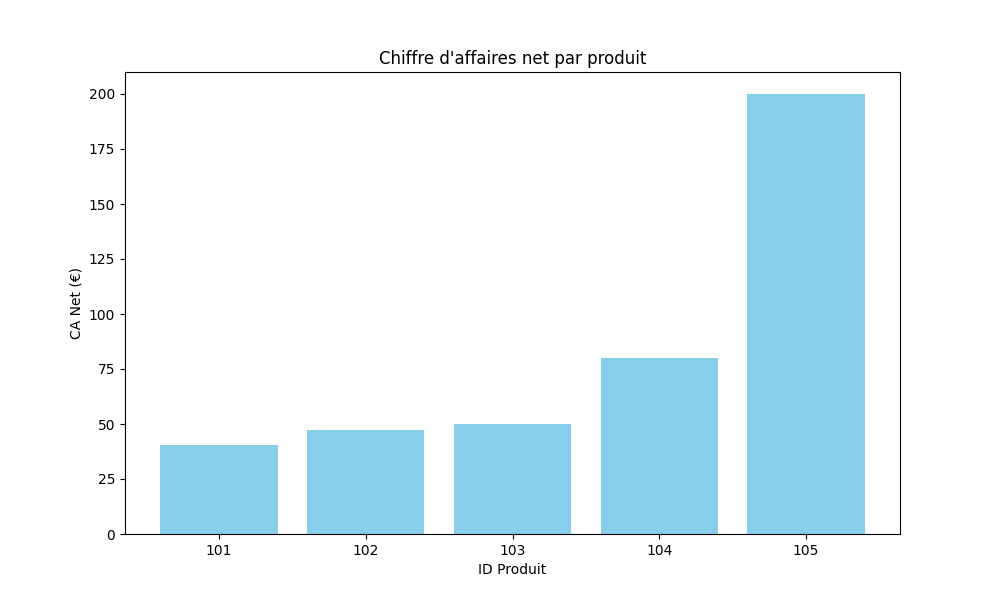
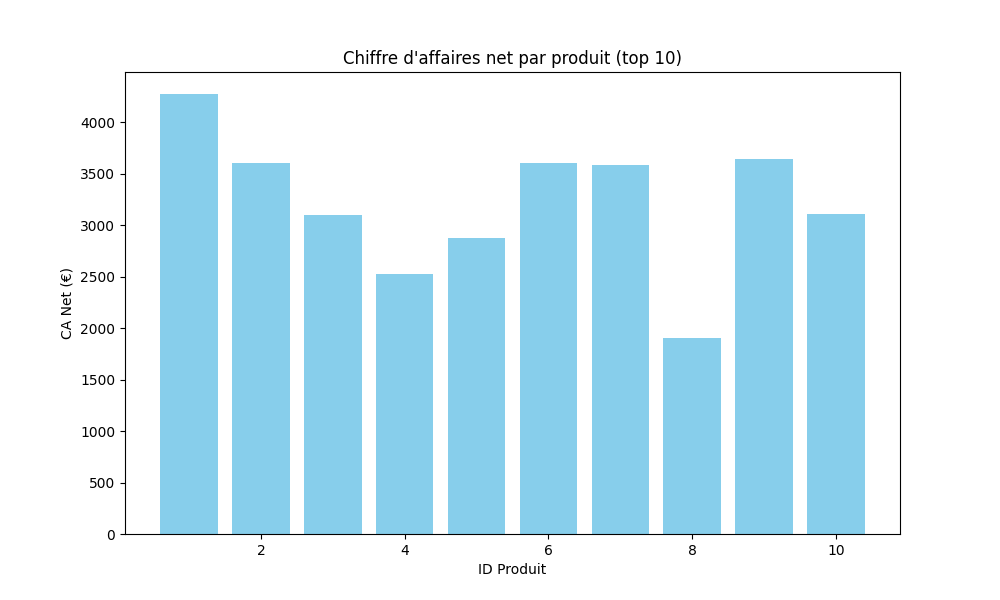
Modification du nombre d'IDs choisi par l'utilisateur

diff --git a/main.py b/main.py
@@ -16,7 +16,26 @@ lignes = lire_fichier_csv("ventes.csv")
 entete = lignes[0].strip()
 donnees = lignes[1:]
 
-print(f" {len(donnees)} produits trouvés\n")
+# Filtrer les lignes vides
+donnees = [l for l in donnees if l.strip() != ""]
+
+total_disponible = len(donnees)
+print(f" {total_disponible} produits disponibles dans le fichier\n")
+
+# ── SAISIE UTILISATEUR ──────────────────────────────────────
+while True:
+    try:
+        n = int(input(f"Combien de produits voulez-vous analyser ? (1 à {total_disponible}) : "))
+        if 1 <= n <= total_disponible:
+            break
+        else:
+            print(f" Veuillez entrer un nombre entre 1 et {total_disponible}.")
+    except ValueError:
+        print(" Entrée invalide. Veuillez entrer un nombre entier.")
+
+donnees = donnees[:n]
+print(f"\n Analyse des {n} premiers produits...\n")
+# ────────────────────────────────────────────────────────────
 
 resultats = []
 ca_total = 0
@@ -24,30 +43,22 @@ meilleur_ca = -1
 id_meilleur_produit = None
 
 for ligne in donnees:
-    if ligne.strip() == "":
-        continue
-    
-    # Découper la ligne
     valeurs = ligne.strip().split(',')
     id_produit = int(valeurs[0])
     prix = float(valeurs[1])
     quantite = int(valeurs[2])
     remise = float(valeurs[3])
     
-    # Calculs
     ca_brut = prix * quantite
     ca_net = ca_brut * (1 - remise / 100)
     tva = ca_net * 0.20
     
-    # Total
     ca_total = ca_total + ca_net
     
-    # Meilleur produit
     if ca_net > meilleur_ca:
         meilleur_ca = ca_net
         id_meilleur_produit = id_produit
     
-    # Stocker
     resultats.append([id_produit, prix, quantite, remise, ca_brut, ca_net, tva])
 
 print("=" * 50)
@@ -61,17 +72,15 @@ for r in resultats:
 
 print("-" * 65)
 print(f"\n CHIFFRE D'AFFAIRES TOTAL : {ca_total:.2f} €")
-print(f"PRODUIT LE PLUS RENTABLE : ID {id_meilleur_produit} (CA Net = {meilleur_ca:.2f} €)")
+print(f" PRODUIT LE PLUS RENTABLE : ID {id_meilleur_produit} (CA Net = {meilleur_ca:.2f} €)")
 
 lignes_sortie = ["ID,Prix,Quantité,Remise,CA_Brut,CA_Net,TVA"]
-
 for r in resultats:
     lignes_sortie.append(f"{r[0]},{r[1]},{r[2]},{r[3]},{r[4]:.2f},{r[5]:.2f},{r[6]:.2f}")
 
 ecrire_fichier_csv("resultats_final.csv", lignes_sortie)
 print(f"\n Fichier 'resultats_final.csv' créé avec succès !")
 
-# BONUS : Graphique
 try:
     import matplotlib.pyplot as plt
     
@@ -80,11 +89,11 @@ try:
     
     plt.figure(figsize=(10, 6))
     plt.bar(ids, ca_nets, color='skyblue')
-    plt.title('Chiffre d\'affaires net par produit')
+    plt.title(f'Chiffre d\'affaires net par produit (top {n})')
     plt.xlabel('ID Produit')
     plt.ylabel('CA Net (€)')
-    plt.savefig('graphique.png')  # <-- CECI CRÉE LE FICHIER
+    plt.savefig('graphique.png')
     print(" Graphique sauvegardé dans 'graphique.png'")
     
 except:
-    print("Installe matplotlib avec : pip install matplotlib")
+    print(" Installe matplotlib avec : pip install matplotlib")